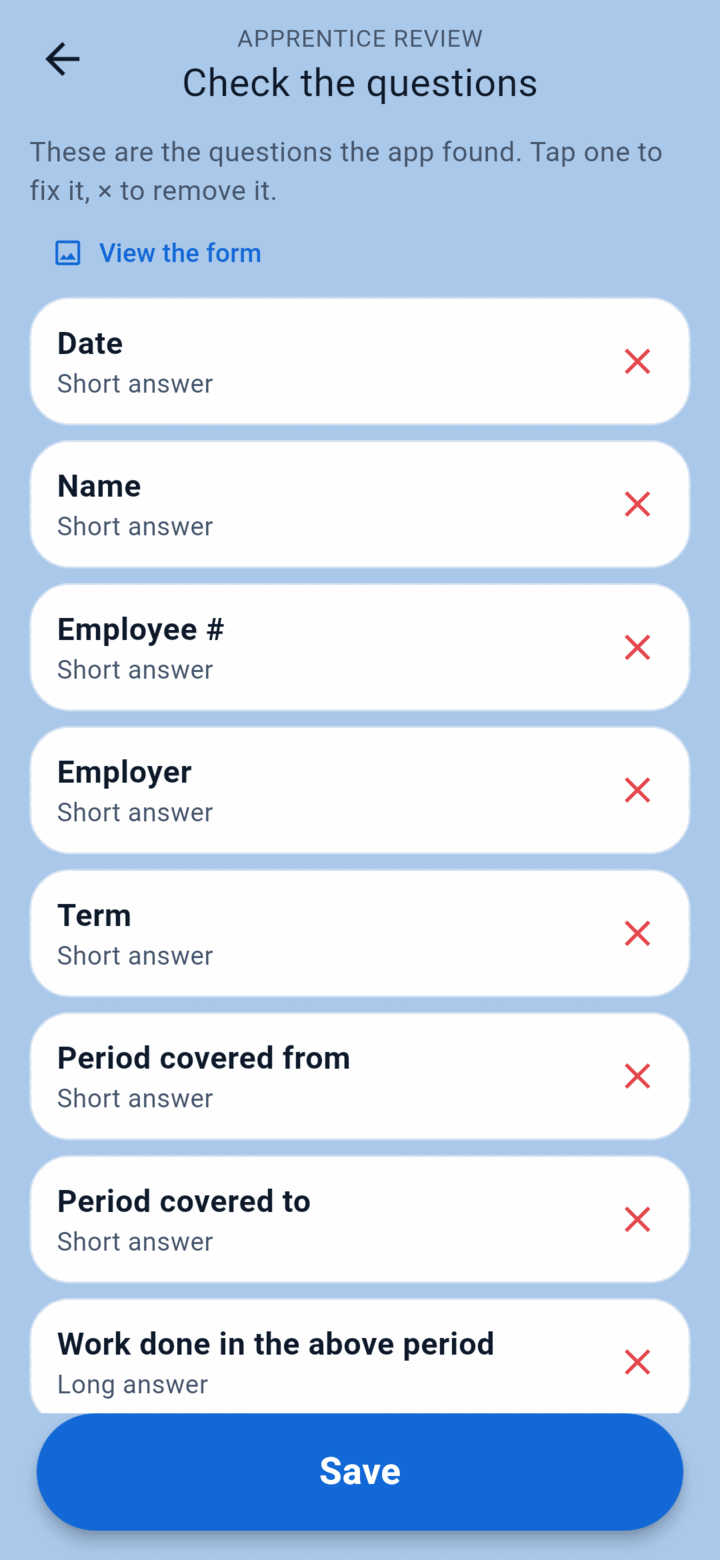
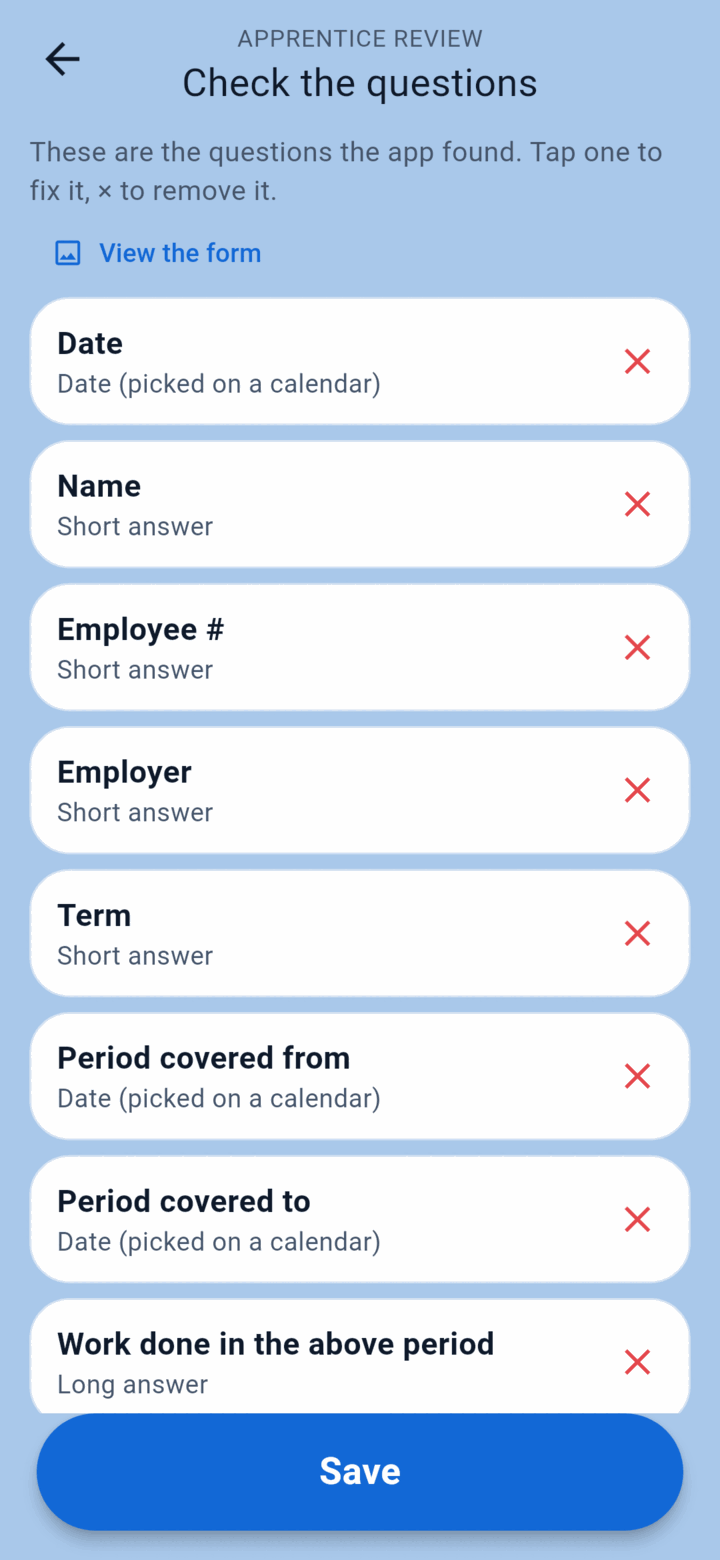
Bigger writing, calendar dates, the period as one pick, ratings found when numbers are a separate column (new app)
Claude-Session: https://claude.ai/code/session_01SU9pkUf5APMbUYgKfLLGdu

diff --git a/mobile/lib/data/forms.dart b/mobile/lib/data/forms.dart
@@ -95,11 +95,8 @@ class Place {
   /// or null with no following lines.
   double? get rowFit {
     if (rows.isEmpty) return null;
-    var gap = rows.first - y;
-    for (var i = 1; i < rows.length; i++) {
-      gap = math.min(gap, rows[i] - rows[i - 1]);
-    }
-    return gap * 0.62;
+    // The average gap (one line found a little off doesn't shrink everything).
+    return (rows.last - y) / rows.length * 0.66;
   }
 
   /// Moved by (dx, dy); following lines move with it.
@@ -133,7 +130,7 @@ class Place {
 
 /// One question on a report form.
 class ReportQuestion {
-  static const text = 'text', long = 'long', rating = 'rating', average = 'average';
+  static const text = 'text', long = 'long', rating = 'rating', average = 'average', date = 'date';
 
   String id;
   String label;
@@ -156,7 +153,7 @@ class ReportQuestion {
   static ReportQuestion fromJson(Map<String, dynamic> o) => ReportQuestion(
         (o['id'] ?? '').toString(),
         (o['label'] ?? '').toString(),
-        const [text, long, rating, average].contains(o['kind']) ? o['kind'] as String : text,
+        const [text, long, rating, average, date].contains(o['kind']) ? o['kind'] as String : text,
         [
           if (o['choices'] is List)
             for (final c in o['choices'] as List)
@@ -172,6 +169,7 @@ class ReportQuestion {
             ? 'Rating'
             : 'Rating (${choices.first.legend}${choices.length > 1 ? ' … ${choices.last.legend}' : ''})',
         average => 'Worked out: average of the ratings',
+        date => 'Date (picked on a calendar)',
         _ => 'Short answer',
       };
 }
@@ -357,7 +355,8 @@ class FormReader {
 
   /// Reads the lines into questions and signature lines; when the lines have boxes, also works out where
   /// each answer is written on the page.
-  static ReadForm readLines(List<FormLine> input, {List<Segment> segments = const []}) {
+  static ReadForm readLines(List<FormLine> rawInput, {List<Segment> segments = const []}) {
+    final input = joinRows(rawInput);
     final found = <_Found>[];
     final choices = <Choice>[];
     final signatures = <String>[];
@@ -489,6 +488,8 @@ class FormReader {
       } else if (kind != ReportQuestion.average && kind != ReportQuestion.long) {
         kind = ReportQuestion.text;
       }
+      // Dates are picked on a calendar: "Date", "Date of incident", and a "... from" / "... to" period.
+      if (kind == ReportQuestion.text && isDateLabel(f.label)) kind = ReportQuestion.date;
       if (kind == ReportQuestion.text && _longWords.hasMatch(f.label)) kind = ReportQuestion.long;
       kinds.add(kind);
     }
@@ -506,7 +507,8 @@ class FormReader {
         if (f.src.hasBox) f.src.height,
     ]..sort();
     final textSize =
-        heights.isEmpty ? 0.014 : (heights[heights.length ~/ 2] * 0.75).clamp(0.008, 0.03).toDouble();
+        // About the size of the form's own printed words.
+        heights.isEmpty ? 0.014 : (heights[heights.length ~/ 2] * 1.15).clamp(0.008, 0.03).toDouble();
 
     // The fill-in lines: not the underline of a heading (a line right under words that cover it).
     final lines = [
@@ -631,6 +633,55 @@ class FormReader {
     final w = end - p.x;
     if (w >= p.width - 1e-9) return p;
     return Place(p.page, p.x, p.y, math.max(0.03, w), p.rows);
+  }
+
+  /// "Date", "Date of incident", "Period covered from", "Period covered to" (but not "Update").
+  static bool isDateLabel(String label) {
+    final l = label.toLowerCase().trim();
+    return RegExp(r'\bdate\b').hasMatch(l) || l.endsWith(' from') || l.endsWith(' to');
+  }
+
+  static final _marker = RegExp(r'^(\d{1,2}|[A-H])[.)]$');
+  static final _number = RegExp(r'^\d+(\.\d+)?$');
+
+  /// The phone's text reader can read a column of item numbers ("1.", "2." …) or a column of points ("4.0",
+  /// "3.0" …) apart from the words beside them. Joins them back: a number marker to the words on its right, a bare
+  /// number to the words on its left, when they're on the same row.
+  static List<FormLine> joinRows(List<FormLine> input) {
+    final out = List<FormLine>.of(input);
+    final gone = <FormLine>{};
+    bool sameRow(FormLine a, FormLine b) {
+      final overlap = math.min(a.bottom, b.bottom) - math.max(a.top, b.top);
+      return a.page == b.page && overlap > 0.5 * math.min(a.height, b.height);
+    }
+
+    for (final m in input) {
+      if (!m.hasBox || gone.contains(m)) continue;
+      final t = m.text.trim();
+      final isMarker = _marker.hasMatch(t), isNumber = !isMarker && _number.hasMatch(t);
+      if (!isMarker && !isNumber) continue;
+      FormLine? best;
+      for (final o in out) {
+        if (identical(o, m) || !o.hasBox || gone.contains(o) || !sameRow(m, o)) continue;
+        if (_marker.hasMatch(o.text.trim()) || _number.hasMatch(o.text.trim())) continue;
+        final gap = isMarker ? o.left - m.right : m.left - o.right;
+        if (gap < -0.005 || gap > 0.25) continue;
+        final bestGap = best == null ? double.infinity : (isMarker ? best.left - m.right : m.left - best.right);
+        if (gap < bestGap) best = o;
+      }
+      if (best == null) continue;
+      final joined = FormLine(isMarker ? '$t ${best.text}' : '${best.text} $t',
+          page: m.page,
+          left: math.min(m.left, best.left),
+          top: math.min(m.top, best.top),
+          right: math.max(m.right, best.right),
+          bottom: math.max(m.bottom, best.bottom));
+      gone
+        ..add(m)
+        ..add(best);
+      out[out.indexOf(best)] = joined;
+    }
+    return out.where((l) => !gone.contains(l)).toList();
   }
 
   /// Trimmed, without trailing ":" or blanks; ALL CAPS becomes sentence case ("Employee #").
@@ -870,6 +921,7 @@ class FormFill {
   /// Which detail a question asks for: 'me.name', 'me.phone', 'me.email', 'me.position', 'date', 'employeeNo',
   /// 'name', 'trade', 'local', 'level', 'phone', 'project', 'location', 'group', 'carry', or null.
   static String? ruleFor(ReportQuestion q) {
+    if (q.kind == ReportQuestion.date) return _dates.contains(q.label.toLowerCase().trim()) ? 'date' : null;
     if (q.kind != ReportQuestion.text && q.kind != ReportQuestion.long) return null;
     final l = q.label.toLowerCase().trim();
     if (_me.hasMatch(l)) {
@@ -1041,6 +1093,23 @@ class FormFill {
         for (final q in form.questions)
           if (q.kind != ReportQuestion.average && r.answer(q.id).isEmpty) q,
       ];
+
+  /// For a "... from" date question, the "... to" right after it (one period, picked together), or null.
+  static ReportQuestion? rangeEnd(ReportForm form, ReportQuestion q) {
+    if (q.kind != ReportQuestion.date || !q.label.toLowerCase().endsWith(' from')) return null;
+    final i = form.questions.indexOf(q);
+    if (i < 0 || i + 1 >= form.questions.length) return null;
+    final next = form.questions[i + 1];
+    return next.kind == ReportQuestion.date && next.label.toLowerCase().endsWith(' to') ? next : null;
+  }
+
+  /// A date answer back as a date ("Nov 13, 2026"), or null.
+  static DateTime? parseDate(String s) {
+    final m = RegExp(r'^([A-Z][a-z]{2}) (\d{1,2}), (\d{4})$').firstMatch(s.trim());
+    if (m == null) return null;
+    final month = _months.indexOf(m.group(1)!);
+    return month < 0 ? null : DateTime(int.parse(m.group(3)!), month + 1, int.parse(m.group(2)!));
+  }
 }
 
 /// Fitting answers into the form's lines (the PDF and the Place the answers screen use the same steps).

diff --git a/mobile/lib/screens/reports_screen.dart b/mobile/lib/screens/reports_screen.dart
@@ -512,9 +512,74 @@ Future<void> exportReportPdf(BuildContext context, ReportForm form, FilledReport
 }
 
 /// Asks each unanswered question one at a time. Answers save as they're given.
+/// A date box: shows the date, and tapping it opens a calendar (months can be switched). For a "... from" with
+/// its "... to" right after, it picks the start and end of the period together and fills both.
+class DateAnswer extends StatelessWidget {
+  final FilledReport report;
+  final ReportForm form;
+  final ReportQuestion q;
+  final VoidCallback onChanged;
+
+  const DateAnswer({super.key, required this.report, required this.form, required this.q, required this.onChanged});
+
+  Future<void> _pick(BuildContext context) async {
+    final end = FormFill.rangeEnd(form, q);
+    final now = DateTime.now();
+    final first = DateTime(now.year - 5), last = DateTime(now.year + 5, 12, 31);
+    if (end != null) {
+      final from = FormFill.parseDate(report.answer(q.id)), to = FormFill.parseDate(report.answer(end.id));
+      final range = await showDateRangePicker(
+        context: context,
+        firstDate: first,
+        lastDate: last,
+        initialDateRange: from != null && to != null && !to.isBefore(from) ? DateTimeRange(start: from, end: to) : null,
+        helpText: q.label.replaceFirst(RegExp(r'\s+from$', caseSensitive: false), ''),
+        saveText: 'Done',
+      );
+      if (range == null) return;
+      report.answers[q.id] = FormFill.date(range.start);
+      report.answers[end.id] = FormFill.date(range.end);
+    } else {
+      final d = await showDatePicker(
+        context: context,
+        firstDate: first,
+        lastDate: last,
+        initialDate: FormFill.parseDate(report.answer(q.id)) ?? now,
+        helpText: q.label,
+      );
+      if (d == null) return;
+      report.answers[q.id] = FormFill.date(d);
+    }
+    report.updatedAt = nowMs();
+    Store.instance.save();
+    onChanged();
+  }
+
+  @override
+  Widget build(BuildContext context) {
+    final end = FormFill.rangeEnd(form, q);
+    final a = report.answer(q.id);
+    final text = end == null
+        ? (a.isEmpty ? 'Pick a date' : a)
+        : (a.isEmpty && report.answer(end.id).isEmpty ? 'Pick the start and end dates' : '$a  to  ${report.answer(end.id)}');
+    return OutlinedButton.icon(
+      icon: const Icon(Icons.calendar_month),
+      label: Align(alignment: Alignment.centerLeft, child: Text(text, style: const TextStyle(fontSize: 17))),
+      style: OutlinedButton.styleFrom(minimumSize: const Size(0, 52), alignment: Alignment.centerLeft),
+      onPressed: () => _pick(context),
+    );
+  }
+}
+
 Future<void> askMissing(BuildContext context, FilledReport r, ReportForm form) async {
   final store = Store.instance;
-  final list = FormFill.missing(r, form);
+  // A period's "... to" is asked with its "... from" (one calendar for both).
+  final all = FormFill.missing(r, form);
+  final ends = {
+    for (final q in all)
+      if (FormFill.rangeEnd(form, q) != null) FormFill.rangeEnd(form, q)!.id,
+  };
+  final list = [for (final q in all) if (!ends.contains(q.id)) q];
   for (var i = 0; i < list.length; i++) {
     if (!context.mounted) return;
     final q = list[i];
@@ -534,7 +599,11 @@ Future<void> askMissing(BuildContext context, FilledReport r, ReportForm form) a
           title: Text('Question ${i + 1} of ${list.length}', style: const TextStyle(color: C.grey, fontSize: 15)),
           content: SingleChildScrollView(
             child: Column(mainAxisSize: MainAxisSize.min, crossAxisAlignment: CrossAxisAlignment.stretch, children: [
-              Text(q.label, style: const TextStyle(color: C.navy, fontSize: 19, fontWeight: FontWeight.bold)),
+              Text(
+                  FormFill.rangeEnd(form, q) != null
+                      ? q.label.replaceFirst(RegExp(r'\s+from$', caseSensitive: false), '')
+                      : q.label,
+                  style: const TextStyle(color: C.navy, fontSize: 19, fontWeight: FontWeight.bold)),
               const SizedBox(height: 12),
               if (q.kind == ReportQuestion.rating)
                 RadioGroup<String>(
@@ -553,6 +622,8 @@ Future<void> askMissing(BuildContext context, FilledReport r, ReportForm form) a
                       ),
                   ]),
                 )
+              else if (q.kind == ReportQuestion.date)
+                DateAnswer(report: r, form: form, q: q, onChanged: () => set(() {}))
               else
                 AnswerBox(controller: ctl, long: q.kind == ReportQuestion.long, autofocus: true, onChanged: keep),
             ]),
@@ -632,6 +703,14 @@ class _FillScreenState extends State<FillScreen> {
           ],
           onChanged: (v) => setState(() => _keep(q.id, v ?? '')),
         );
+      case ReportQuestion.date:
+        // The "... to" of a period is picked with its "... from".
+        final start = f.questions.indexOf(q) > 0 ? f.questions[f.questions.indexOf(q) - 1] : null;
+        final paired = start != null && FormFill.rangeEnd(f, start) == q;
+        answer = paired
+            ? Text(rr.answer(q.id).isEmpty ? 'Picked with "${start.label}"' : rr.answer(q.id),
+                style: TextStyle(fontSize: 17, color: rr.answer(q.id).isEmpty ? C.greyLight : C.navy))
+            : DateAnswer(report: rr, form: f, q: q, onChanged: () => setState(() {}));
       default:
         answer = AnswerBox(
           controller: _box(q),
@@ -761,6 +840,7 @@ class _FormCheckScreenState extends State<FormCheckScreen> {
                     [ReportQuestion.long, 'Long answer'],
                     [ReportQuestion.rating, 'Rating'],
                     [ReportQuestion.average, 'Average of ratings'],
+                    [ReportQuestion.date, 'Date (calendar)'],
                   ])
                     RadioListTile<String>(contentPadding: EdgeInsets.zero, dense: true, value: k[0], title: Text(k[1])),
                 ]),

diff --git a/mobile/test/forms_test.dart b/mobile/test/forms_test.dart
@@ -85,7 +85,7 @@ void main() {
       'Your overall comment on the apprentice',
     ]);
     expect(r.questions.map((q) => q.kind).toList(), [
-      ...List.filled(7, 'text'),
+      'date', 'text', 'text', 'text', 'text', 'date', 'date',
       'long',
       ...List.filled(10, 'rating'),
       'average',
@@ -297,7 +297,7 @@ void main() {
     expect(p('Overall average').y, closeTo(0.548 + 1.2 * 0.009, 0.002));
     // Two labels on one line: each answer goes after its own label.
     expect(p('Date').x, lessThan(p('Term').x));
-    expect(r.textSize, closeTo(0.0098, 0.0005));
+    expect(r.textSize, closeTo(0.013 * 1.15, 0.0005)); // about the size of the printed words
     // No boxes (Word): no places.
     expect(FormReader.read(['NAME:']).questions.single.place, isNull);
   });
@@ -400,7 +400,7 @@ void main() {
     expect(p('Employee name').x + p('Employee name').w, lessThan(0.60));
     // The incident uses its 3 ruled lines, not the signature line.
     expect(p('Details of the incident').rows.length, 2);
-    expect(p('Details of the incident').rowFit, closeTo((0.015) * 0.62, 0.0005));
+    expect(p('Details of the incident').rowFit, closeTo((0.015) * 0.66, 0.0005));
     // A job title is filled from Manage Crew.
     final form = formFrom(r);
     final proj = Project()
@@ -412,5 +412,44 @@ void main() {
         myName: 'Me', myPhone: '', myEmail: '', myPosition: '', myLocation: '', today: DateTime(2026), earlier: []);
     expect(rep.answer(form.questions.firstWhere((q) => q.label == 'Position').id), 'Millwright Apprentice');
     expect(rep.answer(form.questions.firstWhere((q) => q.label == 'Employee name').id), 'Al');
+  });
+
+  test('item numbers and points read as their own column are joined back to their words', () {
+    FormLine l(String t, double x0, double y0, double x1, double y1) =>
+        FormLine(t, left: x0, top: y0, right: x1, bottom: y1);
+    final r = FormReader.readLines([
+      // The numbers column, then the words column, as the phone may read them.
+      l('1.', 0.14, 0.400, 0.16, 0.410), l('2.', 0.14, 0.414, 0.16, 0.424), l('10.', 0.13, 0.428, 0.16, 0.438),
+      l('Improvement shown in above period', 0.19, 0.400, 0.49, 0.410),
+      l('Understanding of work', 0.19, 0.414, 0.37, 0.424),
+      l('Mechanical skills', 0.19, 0.428, 0.32, 0.438),
+      // The point system: words and points apart.
+      l('Excellent', 0.66, 0.40, 0.74, 0.41), l('4.0', 0.85, 0.40, 0.88, 0.41),
+      l('Average', 0.66, 0.414, 0.73, 0.424), l('2.0', 0.85, 0.414, 0.88, 0.424),
+      l('Poor', 0.66, 0.428, 0.70, 0.438), l('0.0', 0.85, 0.428, 0.88, 0.438),
+      l('Overall average of above:', 0.32, 0.45, 0.53, 0.46),
+    ]);
+    expect(r.questions.map((q) => '${q.label}/${q.kind}'), [
+      'Improvement shown in above period/rating',
+      'Understanding of work/rating',
+      'Mechanical skills/rating',
+      'Overall average/average',
+    ]);
+    expect(r.questions.first.choices.map((c) => c.legend), ['Excellent 4.0', 'Average 2.0', 'Poor 0.0']);
+  });
+
+  test('dates: the period is one pick (from and to), dates read back, only a plain Date is today', () {
+    final f = formFrom(FormReader.read(['DATE:', 'PERIOD COVERED FROM:', 'TO:', 'Date of incident:', 'Update:']));
+    expect(f.questions.map((q) => '${q.label}/${q.kind}'),
+        ['Date/date', 'Period covered from/date', 'Period covered to/date', 'Date of incident/date', 'Update/text']);
+    expect(FormFill.rangeEnd(f, f.questions[1])!.label, 'Period covered to');
+    expect(FormFill.rangeEnd(f, f.questions[0]), isNull);
+    expect(FormFill.parseDate('Nov 3, 2026'), DateTime(2026, 11, 3));
+    expect(FormFill.parseDate('soon'), isNull);
+    final r = FilledReport();
+    FormFill.autoFill(r, f, Project(),
+        myName: '', myPhone: '', myEmail: '', myPosition: '', myLocation: '', today: DateTime(2026, 11, 13), earlier: []);
+    expect(r.answers, {'q1': 'Nov 13, 2026'});
+    expect(FormFill.missing(r, f).map((q) => q.label), ['Period covered from', 'Period covered to', 'Date of incident', 'Update']);
   });
 }
